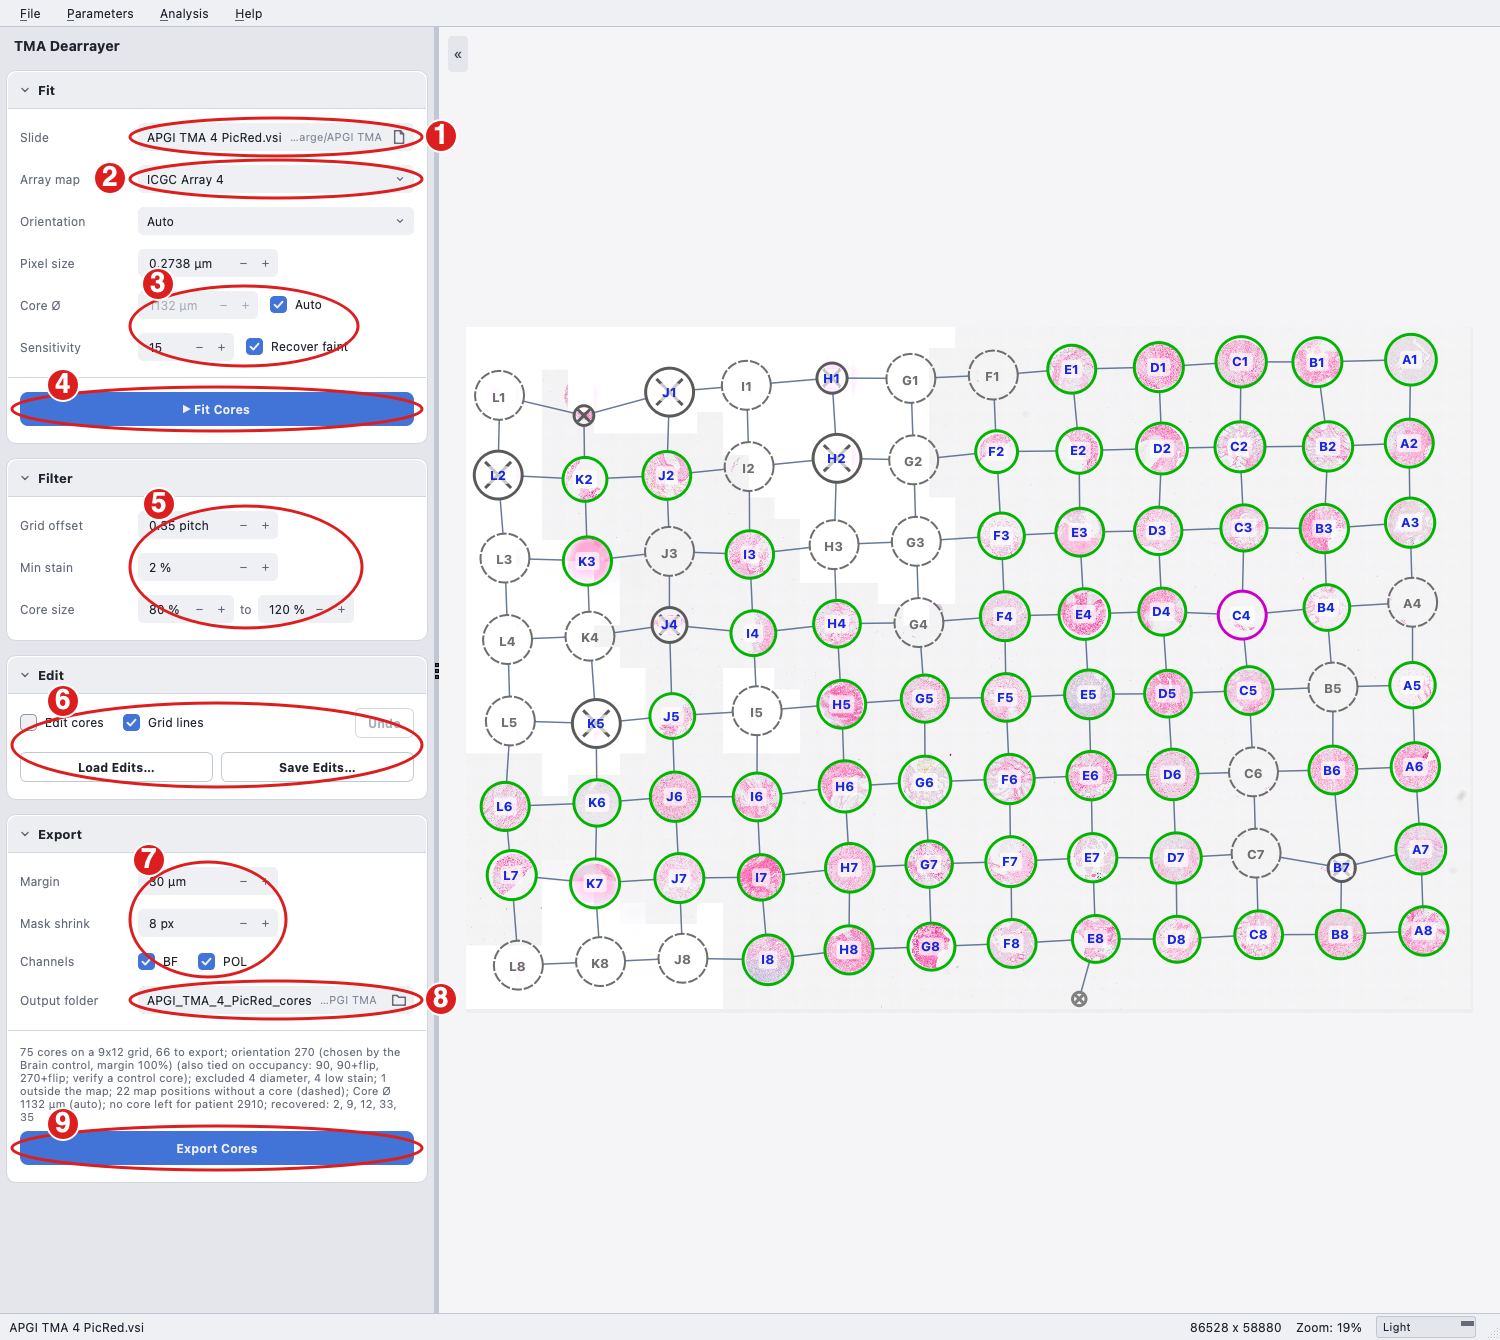
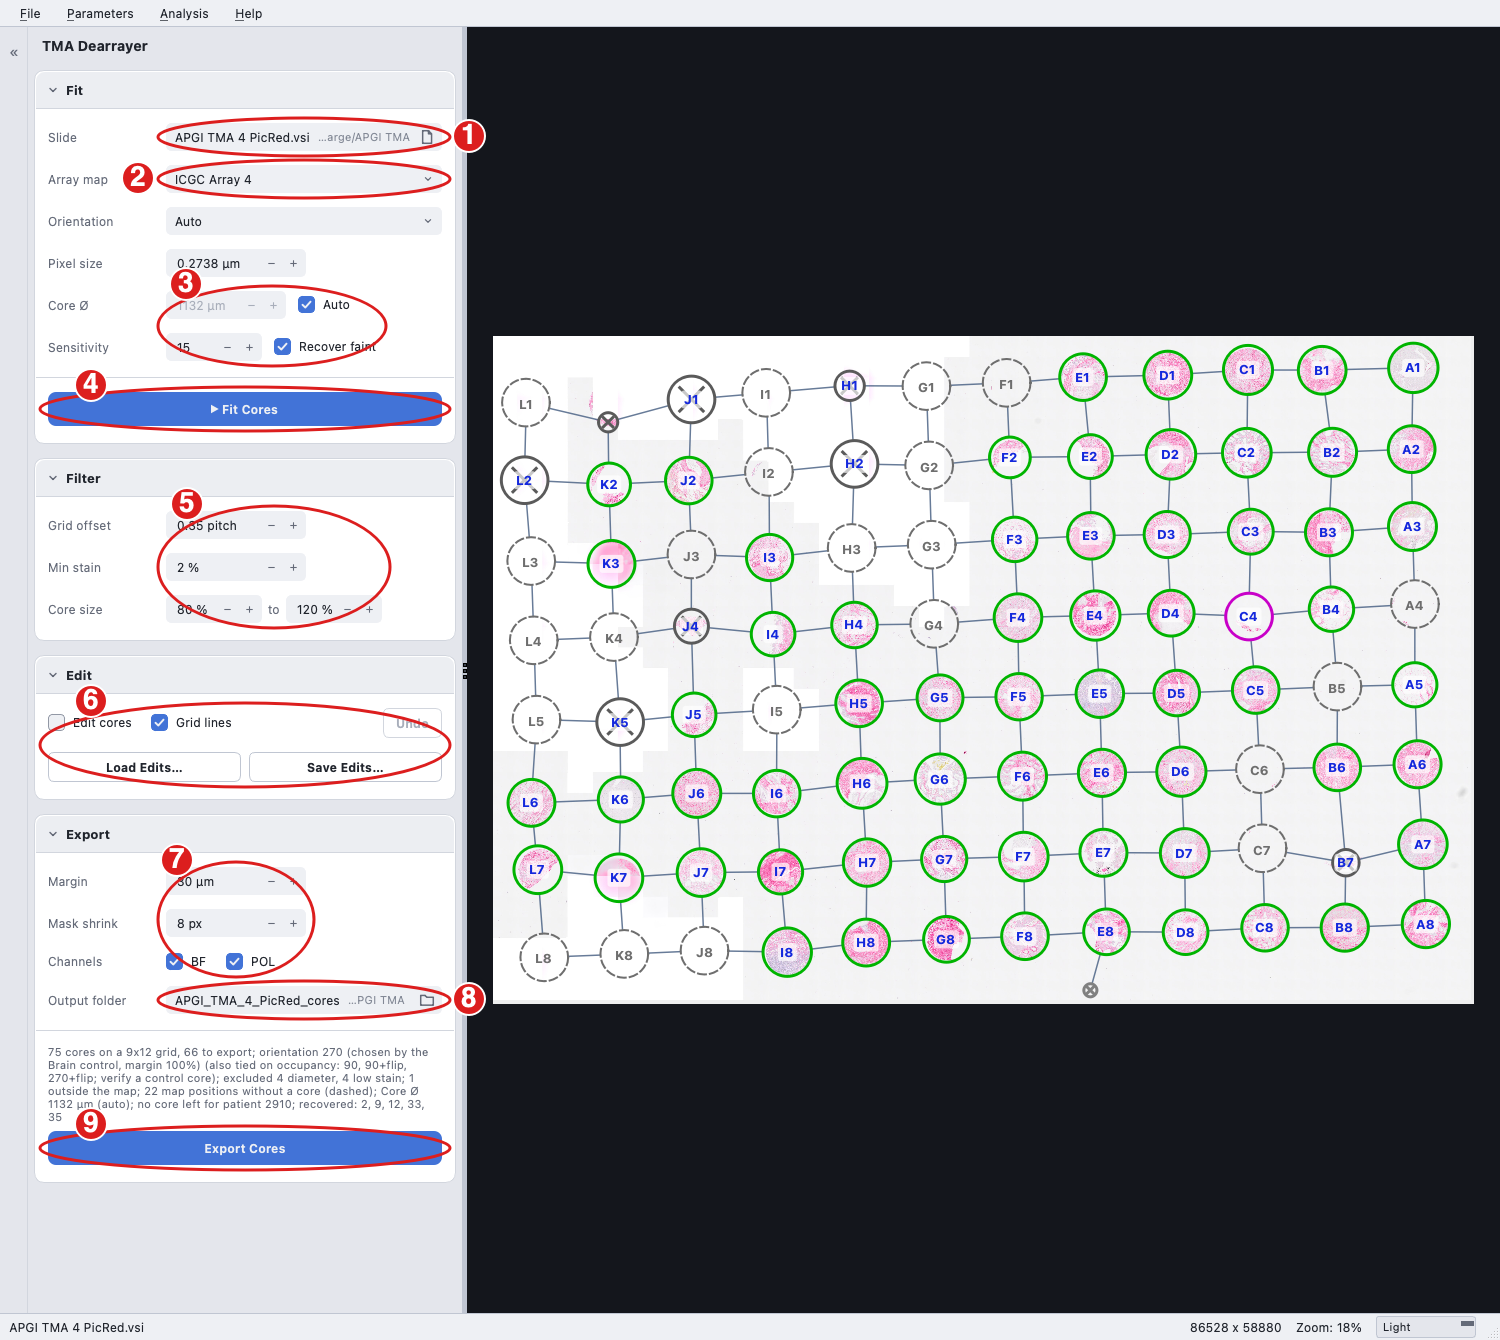
Keep the panel toggle in place; simpler Start page
The side-panel toggle sat on the image panel's edge and moved by the panel
width at every fold, so the next click missed it. It now sits on a fixed
rail at the window's left edge. The panel no longer gets narrower than its
widest page.

The Start page is three buttons (Open TMA Slide, Open Image, Import
Parameters) with Take the Tour and Documentation as text links.

diff --git a/cabana/cabana_gui.py b/cabana/cabana_gui.py
@@ -245,15 +245,20 @@ class MainWindow(QMainWindow):
         self.image_panel = ImagePanel()
         self.image_panel.imageDropped.connect(self.load_original_image)
 
-        content_layout = QVBoxLayout(self.image_panel)
-
-        # Create toggle button
+        # Panel toggle on a fixed rail at the window's left edge: it stays put
+        # when the panel folds or unfolds (on the image panel's edge it jumped
+        # by the panel width, so the next click missed it)
         self.toggle_button = PanelToggleButton()
         self.toggle_button.clicked.connect(self.toggle_panel)
-
-        # Add toggle button and some content to the main area
-        content_layout.addWidget(self.toggle_button, 0, Qt.AlignLeft)
-        content_layout.addStretch(1)
+        self.panel_rail = QWidget()
+        self.panel_rail.setObjectName("panelRail")
+        self.panel_rail.setAttribute(Qt.WA_StyledBackground, True)
+        self.panel_rail.setFixedWidth(28)
+        rail_layout = QVBoxLayout(self.panel_rail)
+        rail_layout.setContentsMargins(2, 8, 2, 8)
+        rail_layout.addWidget(self.toggle_button, 0, Qt.AlignHCenter)
+        rail_layout.addStretch(1)
+        self.panel_rail.setStyleSheet(self._rail_style())
 
         # Add widgets to splitter
         self.splitter.addWidget(self.dock_contents)
@@ -265,7 +270,12 @@ class MainWindow(QMainWindow):
 
         # Compute the minimum dock width so tab labels are never clipped.
         # Match main-branch behavior: let the default tab bar manage elision inside the available width.
-        self.dock_contents.setMinimumWidth(200)
+        # The panel never gets narrower than its widest page (plus the scroll
+        # bar), so a short window squeezes the image panel instead of hiding
+        # the right edge of a page
+        widest = max(self.pages.widget(i).minimumSizeHint().width() for i in range(self.pages.count()))
+        margins = self.dock_layout.contentsMargins()
+        self.dock_contents.setMinimumWidth(max(200, widest + margins.left() + margins.right() + 20))
 
         # Set initial sizes so the left panel opens wide enough for the full Analysis tab labels.
         # Account for all nesting: dock_layout margins, QGroupBox stylesheet padding+border,
@@ -284,8 +294,13 @@ class MainWindow(QMainWindow):
         )
         self.splitter.setSizes([initial_dock_width, 800])
 
-        # Add splitter to the main layout
-        self.main_layout.addWidget(self.splitter)
+        # Rail and splitter side by side in the main layout
+        body = QHBoxLayout()
+        body.setContentsMargins(0, 0, 0, 0)
+        body.setSpacing(0)
+        body.addWidget(self.panel_rail)
+        body.addWidget(self.splitter, 1)
+        self.main_layout.addLayout(body)
 
         # Set handle width thinner
         self.splitter.setHandleWidth(5)
@@ -490,44 +505,46 @@ class MainWindow(QMainWindow):
             self.toggle_panel()
 
     def setup_start_tab(self):
-        """Landing page shown at launch: a Begin card with the three ways to
-        start, and a Help card with the tour and the documentation."""
+        """Landing page shown at launch: the three ways to begin, then links to
+        the tour and the documentation."""
         layout = self._page_layout()
+        layout.setContentsMargins(0, 8, 0, 6)
 
-        begin = SectionCard("Begin")
+        self.start_actions = QWidget()          # what the tour's first step points at
+        actions = QVBoxLayout(self.start_actions)
+        actions.setContentsMargins(0, 0, 0, 0)
+        actions.setSpacing(8)
         self.start_slide_btn = self._primary_button("Open TMA Slide…", play=False)
         self.start_slide_btn.setToolTip("Open a whole-slide TMA scan on the TMA Dearrayer page.")
         self.start_slide_btn.clicked.connect(self._open_tma_slide_from_menu)
-        begin.add_widget(self.start_slide_btn)
+        actions.addWidget(self.start_slide_btn)
         self.start_open_btn = QPushButton("Open Image…")
         self.start_open_btn.setStyleSheet(self.btn_style)
         self.start_open_btn.setToolTip("Open an image to tune the parameters on.")
         self.start_open_btn.clicked.connect(self.load_image)
-        begin.add_widget(self.start_open_btn)
+        actions.addWidget(self.start_open_btn)
         self.start_params_btn = QPushButton("Import Parameters…")
         self.start_params_btn.setStyleSheet(self.btn_style)
         self.start_params_btn.setToolTip("Load a saved Parameters.yml into all pages.")
         self.start_params_btn.clicked.connect(self.import_parameters)
-        begin.add_widget(self.start_params_btn)
-        self.start_begin_card = begin
-        layout.addWidget(begin)
+        actions.addWidget(self.start_params_btn)
+        layout.addWidget(self.start_actions)
 
-        help_card = SectionCard("Help")
-        row = QHBoxLayout()
-        row.setSpacing(8)
+        links = QHBoxLayout()
+        links.setSpacing(18)
         self.start_tour_btn = QPushButton("Take the Tour")
-        self.start_tour_btn.setStyleSheet(self.btn_style)
         self.start_tour_btn.setToolTip("Walk through the analysis, one step at a time.")
         self.start_tour_btn.clicked.connect(self.start_tour)
-        row.addWidget(self.start_tour_btn)
         self.start_docs_btn = QPushButton("Documentation")
-        self.start_docs_btn.setStyleSheet(self.btn_style)
         self.start_docs_btn.setToolTip("Open the online documentation.")
         self.start_docs_btn.clicked.connect(
             lambda: QDesktopServices.openUrl(QUrl("https://cabana.readthedocs.io")))
-        row.addWidget(self.start_docs_btn)
-        help_card.add_layout(row)
-        layout.addWidget(help_card)
+        for btn in (self.start_tour_btn, self.start_docs_btn):
+            btn.setStyleSheet(self.link_btn_style)
+            btn.setCursor(Qt.PointingHandCursor)
+            links.addWidget(btn)
+        links.addStretch(1)
+        layout.addLayout(links)
 
         layout.addStretch()
         self.start_tab.setLayout(layout)
@@ -738,6 +755,12 @@ class MainWindow(QMainWindow):
             self.toggle_panel_action.setChecked(self.panel_visible)
 
 
+    @staticmethod
+    def _rail_style():
+        pc = panel_colors()
+        return (f"QWidget#panelRail {{ background-color: {color_to_stylesheet(pc['panel'])};"
+                f" border-right: 1px solid {color_to_stylesheet(pc['card_border'])}; }}")
+
     def _setup_styles(self) -> None:
         """Set up all style sheets"""
         # Button style
@@ -772,6 +795,12 @@ class MainWindow(QMainWindow):
 
         # Side panel: section cards, row labels, notes, option lists
         self.panel_style = generate_panel_style()
+        # Text links (Start page)
+        accent = color_to_stylesheet(COLORS['highlight'])
+        self.link_btn_style = (
+            f"QPushButton {{ border: none; background: transparent; color: {accent};"
+            f" padding: 2px 0px; font-size: {FONT_SIZES['base']}px; font-weight: 500; }}"
+            f"QPushButton:hover {{ text-decoration: underline; }}")
 
         # Value label style (slider readouts)
         self.value_label_style = (
@@ -3793,7 +3822,7 @@ class MainWindow(QMainWindow):
             TourStep("Welcome to Cabana",
                      "This tour shows where each step of the analysis lives. It changes no settings; "
                      "press Esc to leave at any time.",
-                     page(self.start_tab), lambda: self.start_begin_card),
+                     page(self.start_tab), lambda: self.start_actions),
             TourStep("Cut a TMA slide into cores",
                      "Optional. Fit the cores of a whole-slide TMA scan, check them on the overlay and "
                      "export one image and mask per core.",
@@ -3995,8 +4024,7 @@ class MainWindow(QMainWindow):
         self.page_title.setStyleSheet(self.page_title_style)
 
         # Buttons
-        for btn in (self.start_open_btn, self.start_params_btn, self.start_tour_btn, self.start_docs_btn,
-                    self.cancel_batch_btn,
+        for btn in (self.start_open_btn, self.start_params_btn, self.cancel_batch_btn,
                      self.tma_cancel_btn, self.tma_undo_btn, self.tma_load_edits_btn, self.tma_save_edits_btn):
             btn.setStyleSheet(self.btn_style)
 
@@ -4062,6 +4090,9 @@ class MainWindow(QMainWindow):
         dock_palette.setColor(QPalette.Window, panel_colors()['panel'])
         self.dock_contents.setPalette(dock_palette)
         self.dock_contents.setStyleSheet(self.panel_style)
+        self.panel_rail.setStyleSheet(self._rail_style())
+        self.start_tour_btn.setStyleSheet(self.link_btn_style)
+        self.start_docs_btn.setStyleSheet(self.link_btn_style)
         for widget in self.dock_contents.findChildren((SectionCard, PathEdit)):
             widget.restyle()
         for btn in self._play_buttons:

diff --git a/cabana/ui.py b/cabana/ui.py
@@ -2048,34 +2048,30 @@ class CustomSplitter(QSplitter):
 
 
 class PanelToggleButton(QPushButton):
-    """A toggle button that draws a guillemet arrow pointing left (panel visible)
-    or right (panel hidden)."""
+    """Folds and unfolds the side panel: a guillemet pointing left (panel
+    open) or right (panel folded). It sits on the fixed rail at the window's
+    left edge, so it stays under the pointer whether the panel is open or not."""
 
     def __init__(self, parent=None):
         super().__init__(parent)
         self.setCheckable(True)
-        self.setFixedSize(20, 36)
+        self.setFixedSize(24, 32)
         self.setCursor(Qt.PointingHandCursor)
-        self.setToolTip("Toggle side panel")
+        self.setToolTip("Fold or unfold the side panel (Ctrl+B)")
 
     def paintEvent(self, event):
         painter = QPainter(self)
         painter.setRenderHint(QPainter.Antialiasing)
-
-        # Background
-        bg = COLORS['dock'] if not self.underMouse() else COLORS['elevated']
-        painter.setBrush(bg)
-        painter.setPen(Qt.NoPen)
-        painter.drawRoundedRect(self.rect(), 4, 4)
-
-        # Draw guillemet
-        color = COLORS['highlight'] if self.underMouse() else COLORS['secondary']
-        painter.setPen(QPen(color, 1))
+        hot = self.underMouse()
+        if hot:
+            painter.setBrush(panel_colors()['field'])
+            painter.setPen(Qt.NoPen)
+            painter.drawRoundedRect(QRectF(self.rect()), 6, 6)
+        painter.setPen(QPen(COLORS['highlight'] if hot else COLORS['text_dim'], 1))
         font = painter.font()
-        font.setPixelSize(14)
+        font.setPixelSize(15)
         painter.setFont(font)
-        symbol = '»' if self.isChecked() else '«'
-        painter.drawText(self.rect(), Qt.AlignCenter, symbol)
+        painter.drawText(self.rect(), Qt.AlignCenter, '\u00bb' if self.isChecked() else '\u00ab')
 
     def enterEvent(self, event):
         self.update()

diff --git a/tests/test_tour.py b/tests/test_tour.py
@@ -142,8 +142,20 @@ def test_dialogs_use_the_card_style(win, monkeypatch):
     assert all(n in [w.text() for w in news.findChildren(gui.QLabel)] for n in notes)
 
 
-def test_start_page_is_cards(win):
+def test_start_page_is_three_buttons_and_two_links(win):
     from cabana.ui import SectionCard
-    titles = [c.title_label.text() for c in win.start_tab.findChildren(SectionCard)]
-    assert titles == ["Begin", "Help"]
-    assert win.start_tour_btn.text() == "Take the Tour"
+    assert not win.start_tab.findChildren(SectionCard)
+    assert [b.text() for b in (win.start_slide_btn, win.start_open_btn, win.start_params_btn)] == [
+        "Open TMA Slide…", "Open Image…", "Import Parameters…"]
+    assert (win.start_tour_btn.text(), win.start_docs_btn.text()) == ("Take the Tour", "Documentation")
+
+
+def test_panel_toggle_stays_put_when_the_panel_folds(win, app):
+    from PyQt5.QtCore import QPoint
+    from PyQt5.QtTest import QTest
+    where = win.toggle_button.mapTo(win, QPoint(0, 0))
+    for visible in (False, True, False, True):
+        QTest.mouseClick(win.toggle_button, Qt.LeftButton)
+        settle(app)
+        assert win.panel_visible is visible and win.dock_contents.isVisible() is visible
+        assert win.toggle_button.mapTo(win, QPoint(0, 0)) == where     # the next click lands on it
